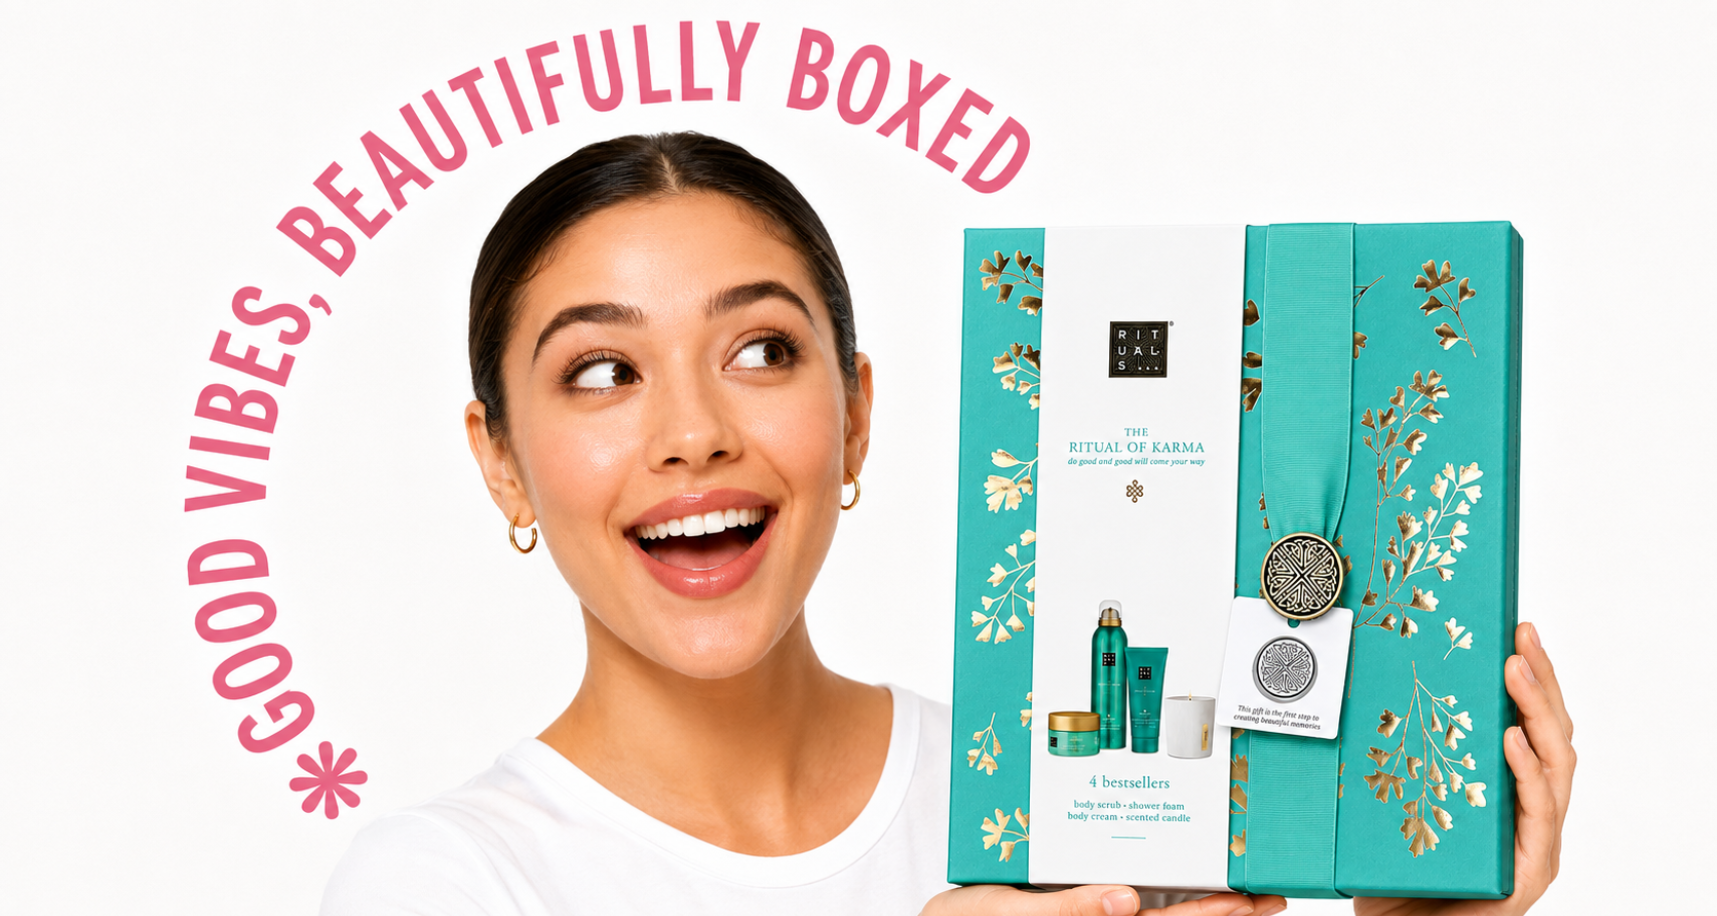
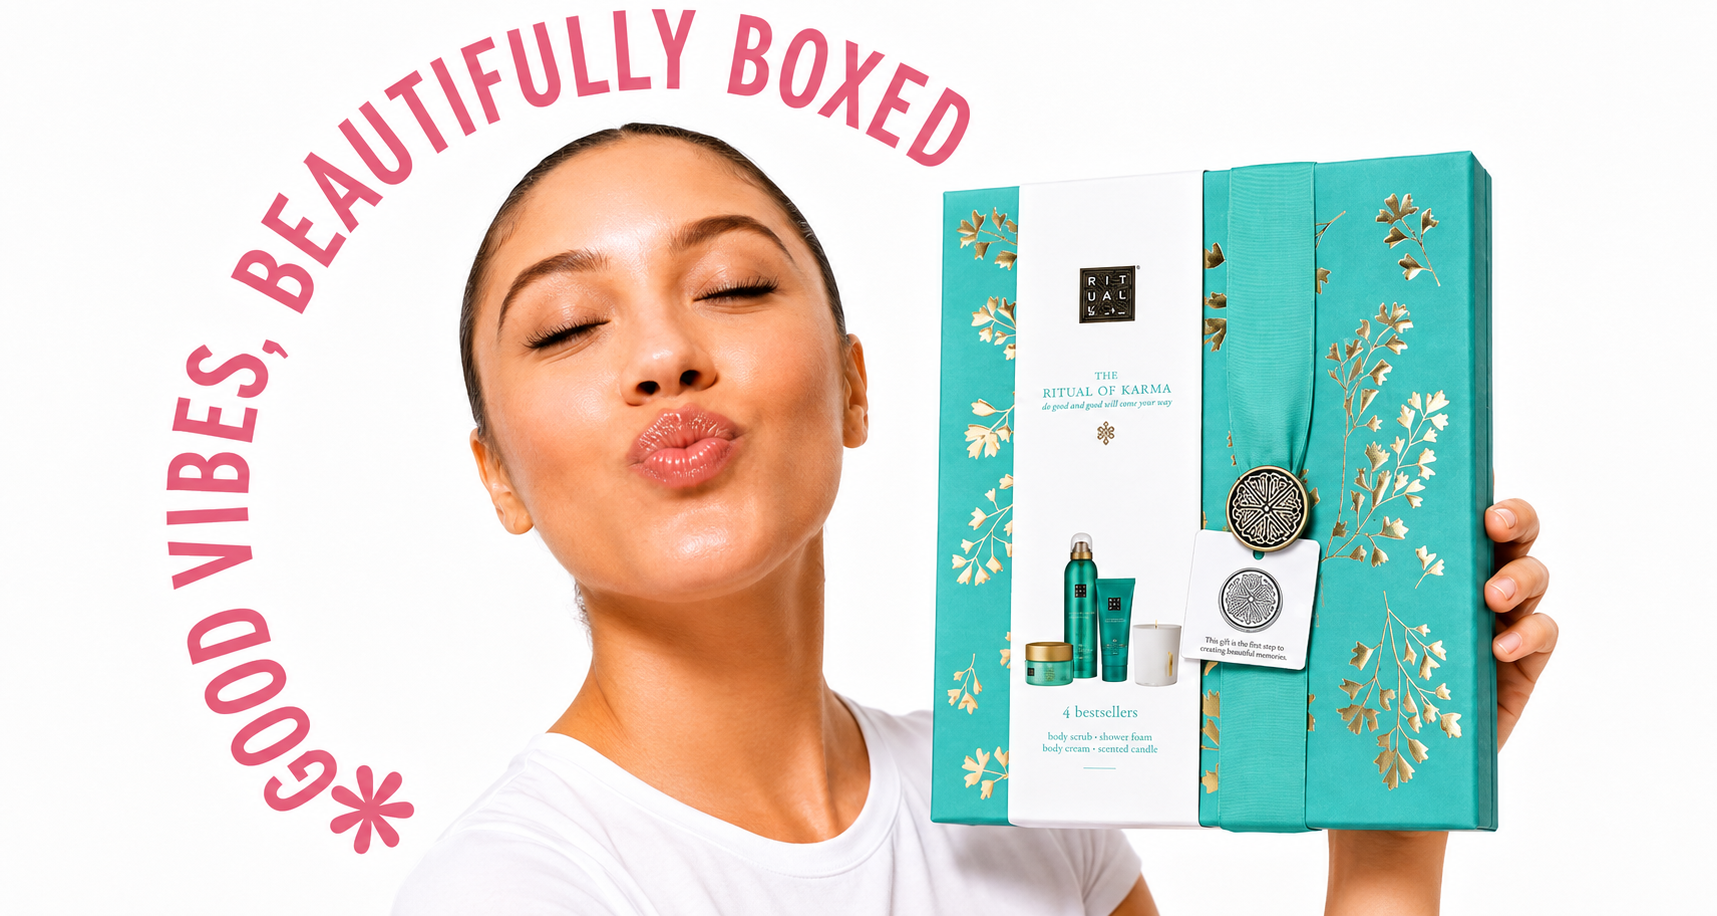
style(hero): update Rituals carousel image and change CONTACT to CONTACTEZ-NOUS in navbar

diff --git a/resources/views/components/navbar.blade.php b/resources/views/components/navbar.blade.php
@@ -58,7 +58,7 @@
             </div>
 
             <a href="{{ route('contact') }}" class="hover:text-pink-600 transition-colors {{ request()->routeIs('contact') ? 'text-pink-600' : '' }}">
-                <span>CONTACT</span>
+                <span>CONTACTEZ-NOUS</span>
             </a>
         </nav>
 
